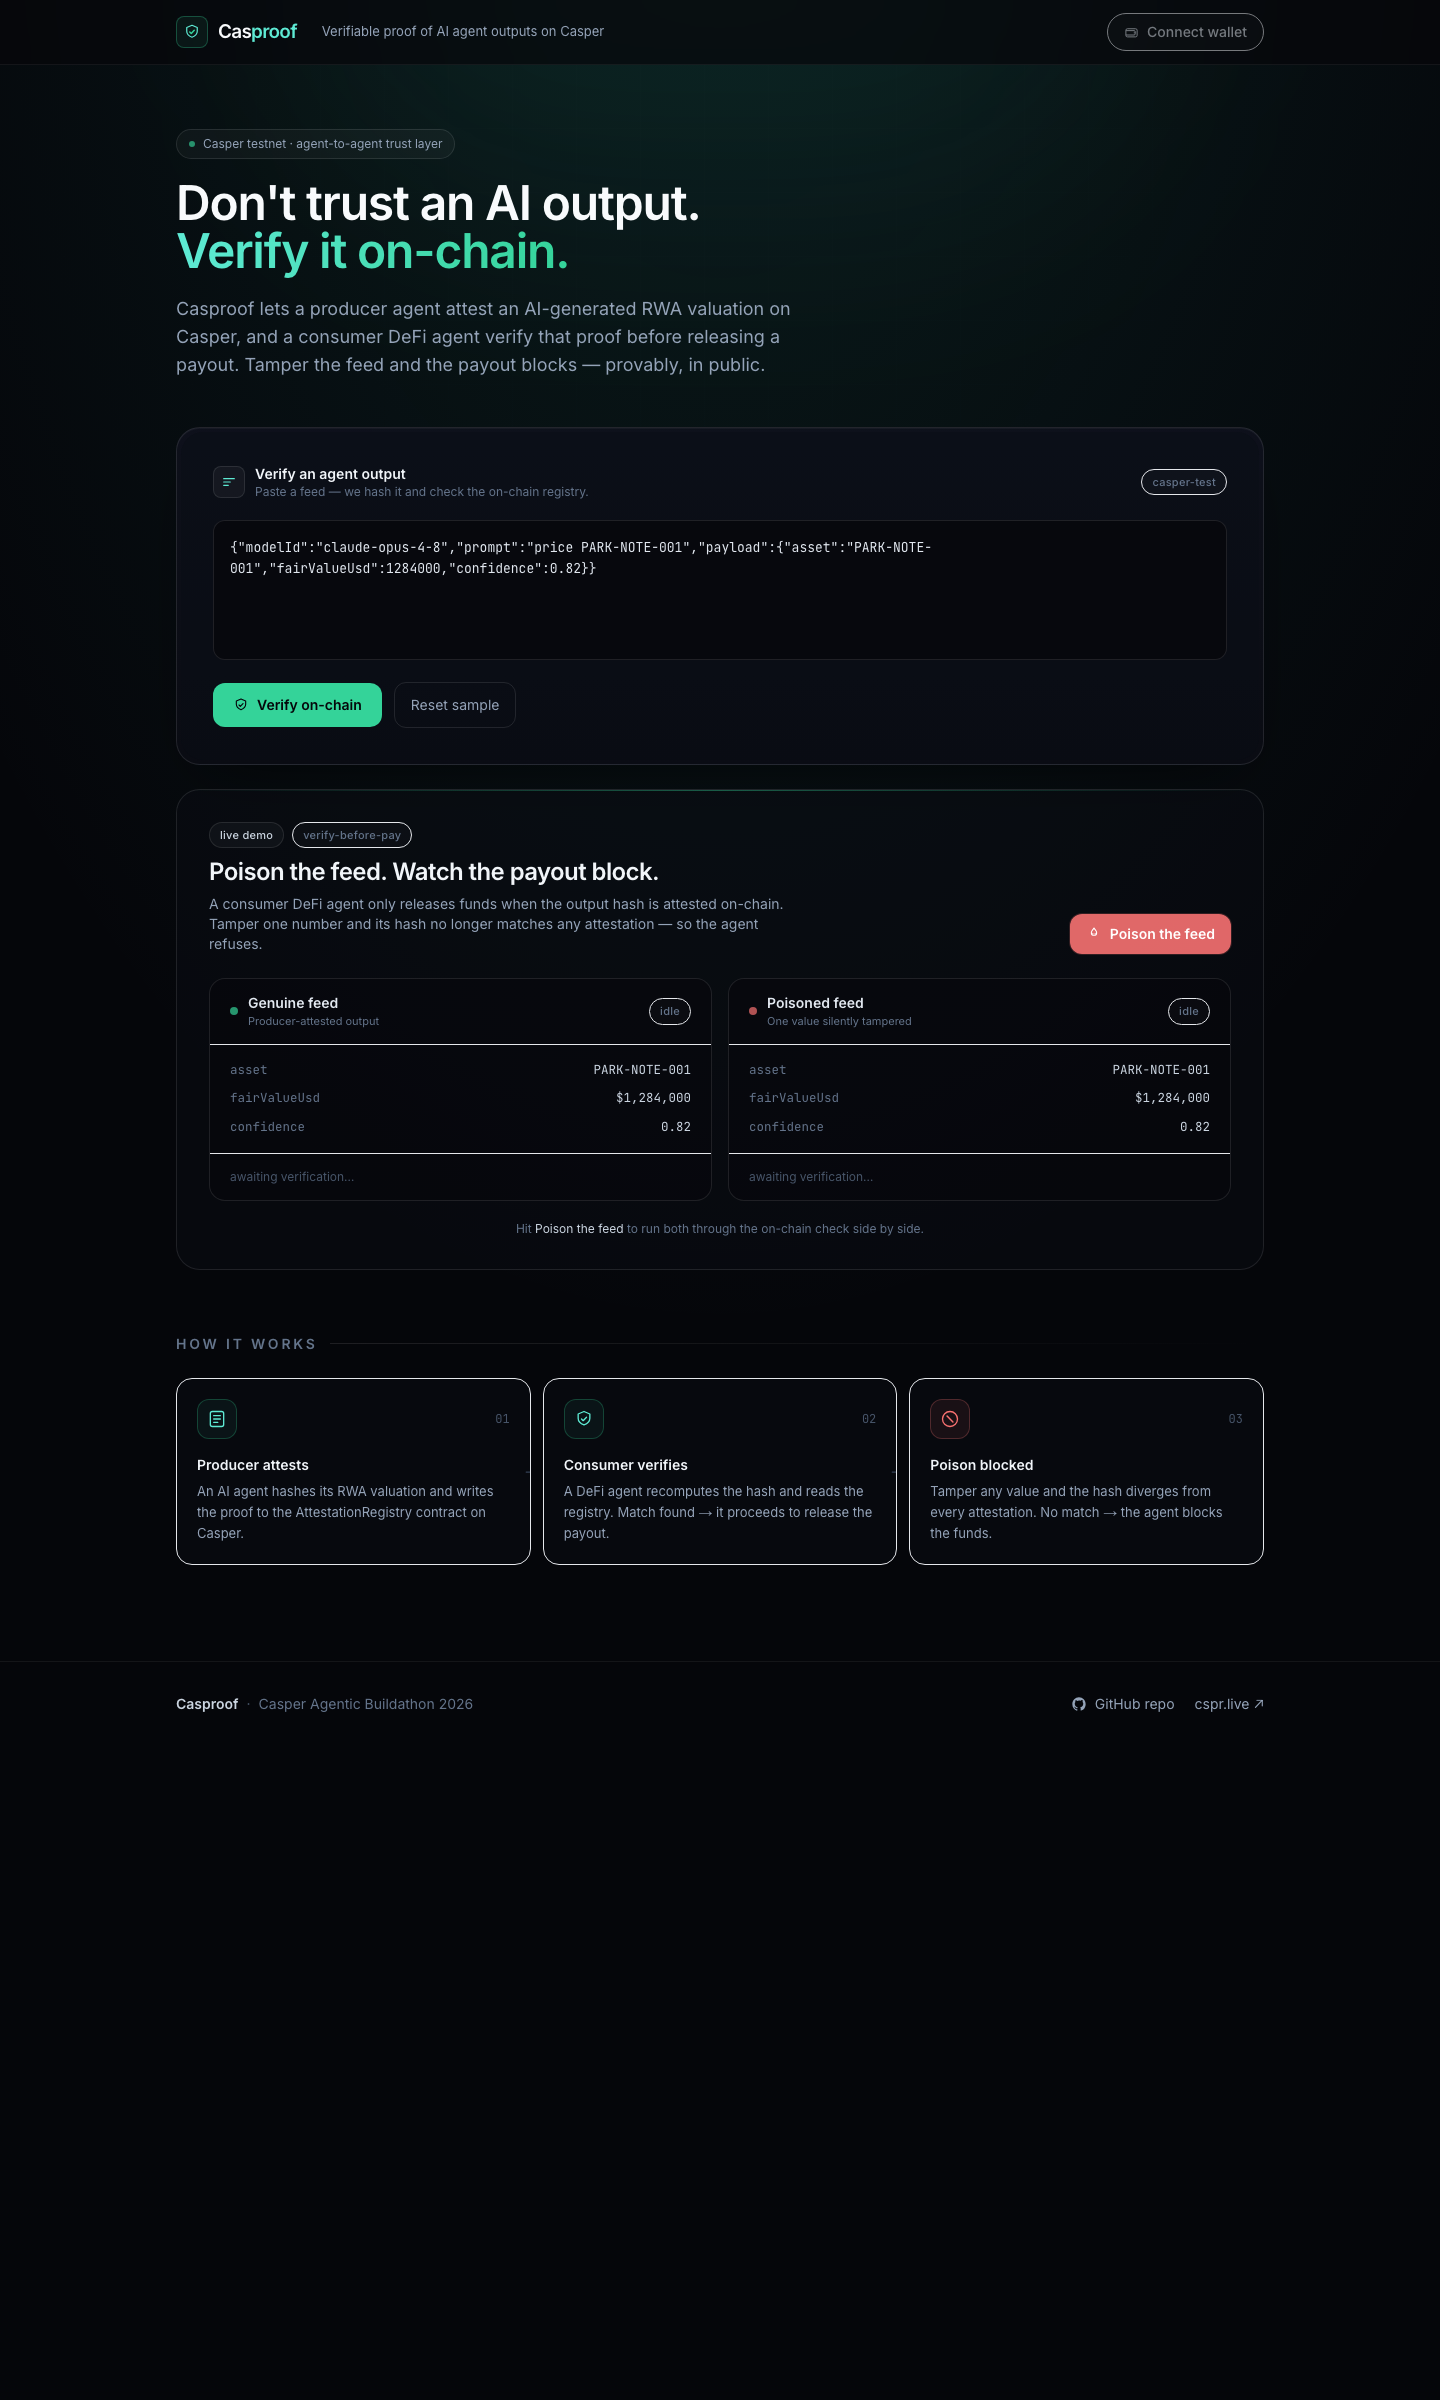
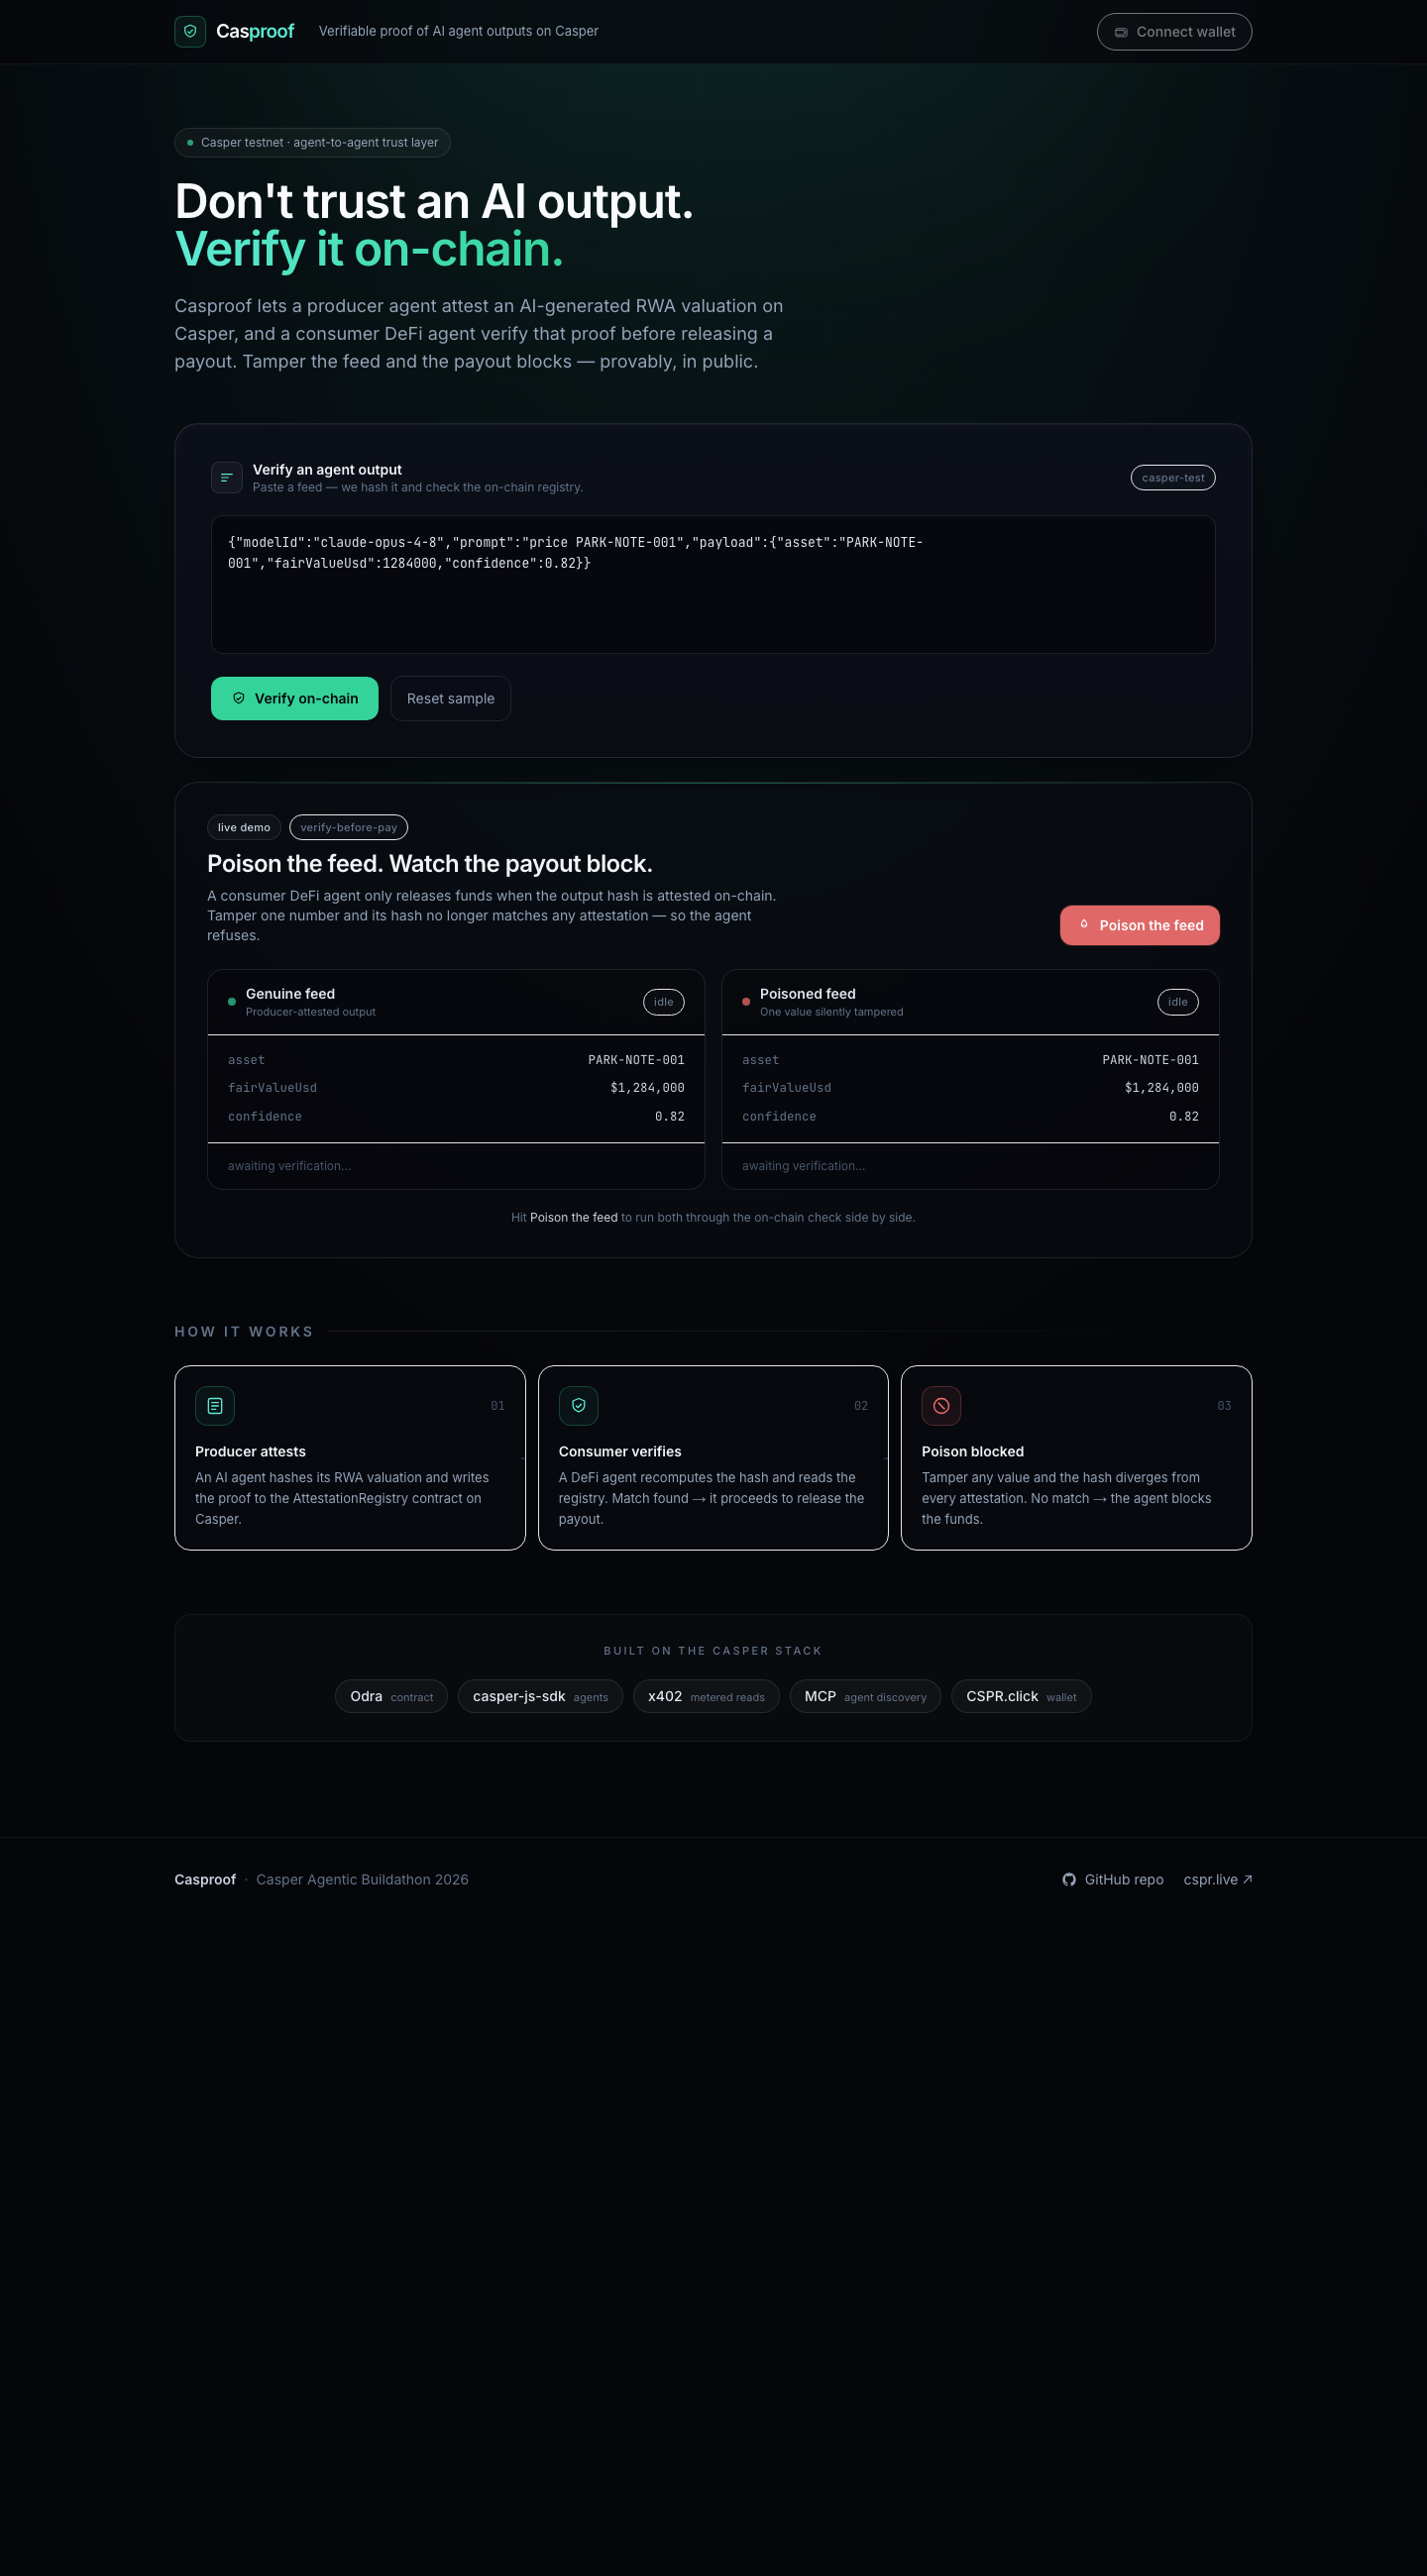
polish(ui): add 'Built on the Casper stack' strip; refresh screenshot

diff --git a/ui/components/CasperStack.tsx b/ui/components/CasperStack.tsx
@@ -1,0 +1,30 @@
+const PIECES = [
+  { name: "Odra", note: "contract" },
+  { name: "casper-js-sdk", note: "agents" },
+  { name: "x402", note: "metered reads" },
+  { name: "MCP", note: "agent discovery" },
+  { name: "CSPR.click", note: "wallet" }
+];
+
+export default function CasperStack() {
+  return (
+    <section className="mt-16">
+      <div className="flex flex-col items-center gap-5 rounded-2xl border border-white/[0.06] bg-white/[0.015] px-6 py-7">
+        <p className="text-[11px] font-medium uppercase tracking-[0.22em] text-slate-500">
+          Built on the Casper stack
+        </p>
+        <div className="flex flex-wrap items-center justify-center gap-2.5">
+          {PIECES.map((p) => (
+            <span
+              key={p.name}
+              className="group inline-flex items-baseline gap-2 rounded-full border border-white/10 bg-white/[0.03] px-3.5 py-1.5 transition hover:border-mint/30 hover:bg-mint/[0.05]"
+            >
+              <span className="text-sm font-medium text-slate-200">{p.name}</span>
+              <span className="text-[11px] text-slate-500 transition group-hover:text-mint-soft/70">{p.note}</span>
+            </span>
+          ))}
+        </div>
+      </div>
+    </section>
+  );
+}

diff --git a/ui/app/page.tsx b/ui/app/page.tsx
@@ -2,6 +2,7 @@ import Header from "@/components/Header";
 import HeroVerify from "@/components/HeroVerify";
 import PoisonDemo from "@/components/PoisonDemo";
 import HowItWorks from "@/components/HowItWorks";
+import CasperStack from "@/components/CasperStack";
 
 const REPO_URL = "https://github.com/SyaugiAlkaf/casproof";
 
@@ -38,6 +39,8 @@ export default function Page() {
         <div className="mt-16">
           <HowItWorks />
         </div>
+
+        <CasperStack />
       </main>
 
       <Footer />